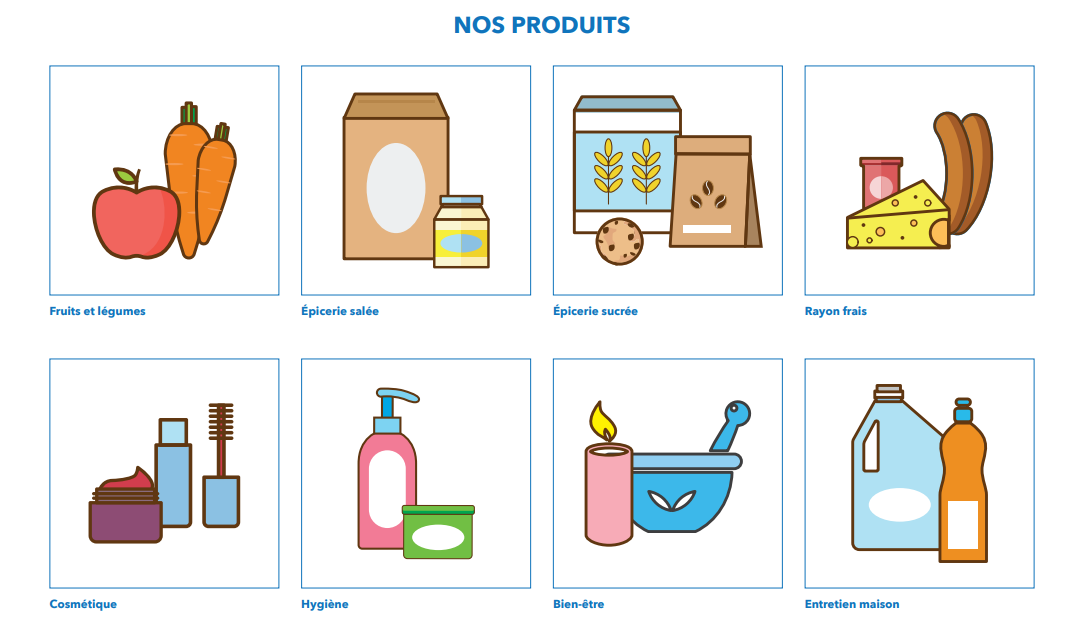
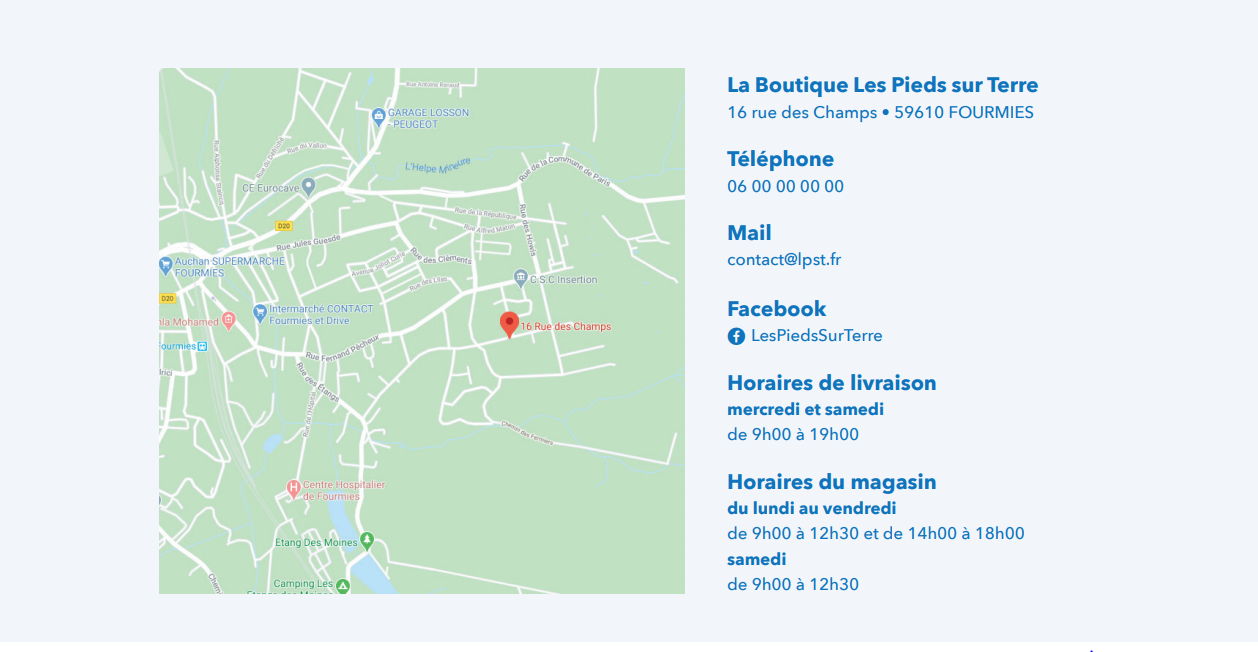
Ajout de contenue dans la page notre magasin

diff --git a/assets/css/style.css b/assets/css/style.css
@@ -29,6 +29,12 @@ body {
     flex-direction: column;
 }
 
+.flexCenter {
+    display: flex;
+    align-items: center;
+    justify-content: center;
+}
+
 a {
     text-decoration: none;
     color: black;
@@ -57,7 +63,7 @@ a {
     align-items: center;
     justify-content: center;
     padding: 20px;
-    font-size: 25px;
+    font-size: 22px;
     width: 20%;
     height: 100px;
 }
@@ -99,7 +105,7 @@ footer {
 
 .network_i:hover {
     background-color: #351F1D;
-    color: white;
+    color: #A9C500;
 }
 
 h1 {
@@ -114,18 +120,22 @@ h1 {
     border: 2px solid #69A7D4;
 }
 
+.blueBorder:hover {
+    box-shadow: 4px 4px 10px lightgray;
+}
+
 .products {
     width: 17%;
     margin: 10px 30px;
+    align-items: center;
 }
 
 .productsImage, .blueBorder {
     width: 100%;
 }
 
-.categoryName {
+.colorBlue {
     color: #3b72bd;
-    text-align: center;
 }
 
 .allProducts {
@@ -141,4 +151,40 @@ h1 {
     font-size: 10px;
     color: white;
     margin: 10px 15px;
+}
+
+.linkFooter:hover {
+    text-decoration: underline white;
+}
+
+#storefront {
+    width: 500px;
+}
+
+.about {
+    margin: 30px 0;
+}
+
+.description {
+    width: 100%;
+    margin: 10px 0;
+    padding: 20px;
+    background-color: #F2F5FA;
+}
+
+.margin15-30 {
+    margin: 15px 30px;
+}
+
+.colorGreen {
+    color: #A9C500;
+}
+
+.descriptionIcon {
+    color: #B38243;
+    margin-right: 10px;
+}
+
+.underlineMail:hover {
+    text-decoration: underline #A9C500;
 }

diff --git a/pages/products.php b/pages/products.php
@@ -9,53 +9,53 @@ include $_SERVER['DOCUMENT_ROOT'] . "/_partials/menu.php";
     <main>
         <h1>NOS PRODUITS</h1>
         <div class="flexRow allProducts">
-            <a href="#" class="products">
+            <a href="#" class="products flexColumn">
                 <div class="blueBorder">
                     <img class="productsImage" alt="fruits et légumes" src="../assets/img/fruits_et_legumes.png" >
                 </div>
-                <p class="categoryName">Fruits et légumes</p>
+                <p class="colorBlue">Fruits et légumes</p>
             </a>
-            <a href="#" class="products">
+            <a href="#" class="products flexColumn">
                 <div class="blueBorder">
                     <img class="productsImage" alt="épicerie salée" src="../assets/img/epicerie_salee.png" >
                 </div>
-                <p class="categoryName">Epicerie salée</p>
+                <p class="colorBlue">Epicerie salée</p>
             </a>
-            <a href="#" class="products">
+            <a href="#" class="products flexColumn">
                 <div class="blueBorder">
                     <img class="productsImage" alt="épicerie sucrée" src="../assets/img/epicerie_sucree.png" >
                 </div>
-                <p class="categoryName">Epicerie sucrée</p>
+                <p class="colorBlue">Epicerie sucrée</p>
             </a>
-            <a href="#" class="products">
+            <a href="#" class="products flexColumn">
                 <div class="blueBorder">
                     <img class="productsImage" alt="rayon frais" src="../assets/img/rayon_frais.png" >
                 </div>
-                <p class="categoryName">Rayon frais</p>
+                <p class="colorBlue">Rayon frais</p>
             </a>
-            <a href="#" class="products">
+            <a href="#" class="products flexColumn">
                 <div class="blueBorder">
                     <img class="productsImage" alt="cosmétique" src="../assets/img/cosmetique.png" >
                 </div>
-                <p class="categoryName">Cosmétique</p>
+                <p class="colorBlue">Cosmétique</p>
             </a>
-            <a href="#" class="products">
+            <a href="#" class="products flexColumn">
                 <div class="blueBorder">
                     <img class="productsImage" alt="hygiène" src="../assets/img/hygiene.png" >
                 </div>
-                <p class="categoryName">Hygiène</p>
+                <p class="colorBlue">Hygiène</p>
             </a>
-            <a href="#" class="products">
+            <a href="#" class="products flexColumn">
                 <div class="blueBorder">
                     <img class="productsImage" alt="bien-être" src="../assets/img/bien_etre.png" >
                 </div>
-                <p class="categoryName">Bien-être</p>
+                <p class="colorBlue">Bien-être</p>
             </a>
-            <a href="#" class="products">
+            <a href="#" class="products flexColumn">
                 <div class="blueBorder">
                     <img class="productsImage" alt="entretien maison" src="../assets/img/entretien_maison.png" >
                 </div>
-                <p class="categoryName">Entretien maison</p>
+                <p class="colorBlue">Entretien maison</p>
             </a>
         </div>
 

diff --git a/index.php b/index.php
@@ -7,6 +7,42 @@ include $_SERVER['DOCUMENT_ROOT'] . "/_partials/menu.php";
 ?>
 
     <main>
+        <h1>NOTRE MAGASIN</h1>
+        <div class="flexCenter">
+            <img id="storefront" alt="Deventure du magasin" src="/assets/img/devanture_magasin.png">
+        </div>
+        <p class="description colorBlue">Lorem ipsum dolor sit amet, consectetur adipisicing elit. Accusamus, animi architecto asperiores blanditiis consectetur doloremque facilis fugiat molestias nihil nostrum optio quas quisquam quo recusandae rerum sint sunt suscipit, voluptatem?</p>
+
+        <div class="flexRow about">
+            <iframe width="50%" height="450px" frameborder="0" allowfullscreen src="//umap.openstreetmap.fr/fr/map/carte-sans-nom_574897?scaleControl=false&miniMap=false&scrollWheelZoom=false&zoomControl=true&allowEdit=false&moreControl=true&searchControl=null&tilelayersControl=null&embedControl=null&datalayersControl=true&onLoadPanel=undefined&captionBar=false"></iframe>
+            <div class="flexColumn">
+                <div class="margin15-30 colorGreen">
+                    <h3><i class="fas fa-map-marker-alt descriptionIcon"></i>La Boutique Les Pieds sur Terre</h3>
+                    <p>23 rue Jean Pierre Dupont, 59610 FOURMIES</p>
+                </div>
+                <div class="margin15-30 colorGreen">
+                    <h3><i class="fas fa-phone-alt descriptionIcon"></i>Téléphone</h3>
+                    <p>07 49 47 20 08</p>
+                </div>
+                <div class="margin15-30 colorGreen">
+                    <h3><i class="fas fa-envelope descriptionIcon"></i>Mail</h3>
+                    <a class="colorGreen underlineMail" href="mailto:contact@lpst.fr">contact@lpst.fr</a>
+                </div>
+                <div class="margin15-30 colorGreen">
+                    <h3><i class="fas fa-truck descriptionIcon"></i>Horaires de livraison</h3>
+                    <p><strong>jours</strong></p>
+                    <p>Heures - heures</p>
+                </div>
+                <div class="margin15-30 colorGreen">
+                    <h3><i class="fas fa-store descriptionIcon"></i>Horaires du magasin</h3>
+                    <p><strong>du mardi au vendredi</strong></p>
+                    <p>09:30 - 12:30 / 14:30 - 18:30</p>
+                    <p><strong>du samedi</strong></p>
+                    <p>09:00 - 12:30 / 14:30 18:00</p>
+                </div>
+            </div>
+        </div>
+
 
     </main>
 

diff --git a/_partials/footer.php b/_partials/footer.php
@@ -1,7 +1,7 @@
 <footer class="flexColumn">
     <div>
-        <a class="network" href="#"><i class="network_i fab fa-facebook"></i></a>
-        <a class="network" href="#"><i class="network_i fas fa-envelope"></i></a>
+        <a class="network" href="https://www.facebook.com/BiomondeFourmies/?ref=page_internal"><i class="network_i fab fa-facebook"></i></a>
+        <a class="network" href="mailto:contact@lpst.fr"><i class="network_i fas fa-envelope"></i></a>
         <a class="network" href="#"><i class="network_i fas fa-phone-square-alt"></i></a>
     </div>
 
